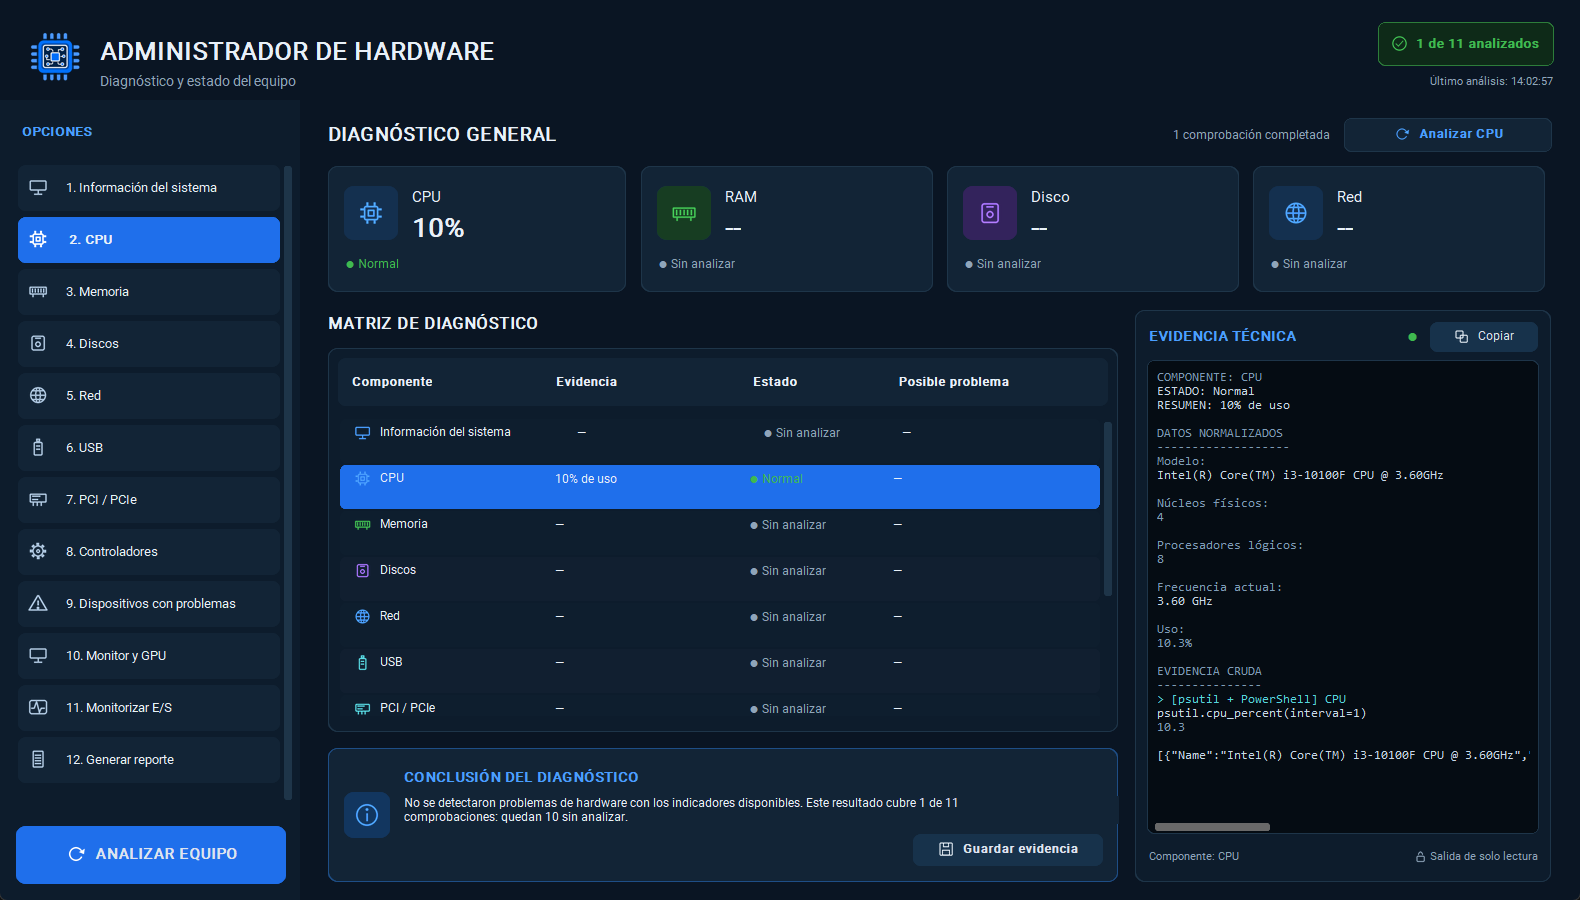
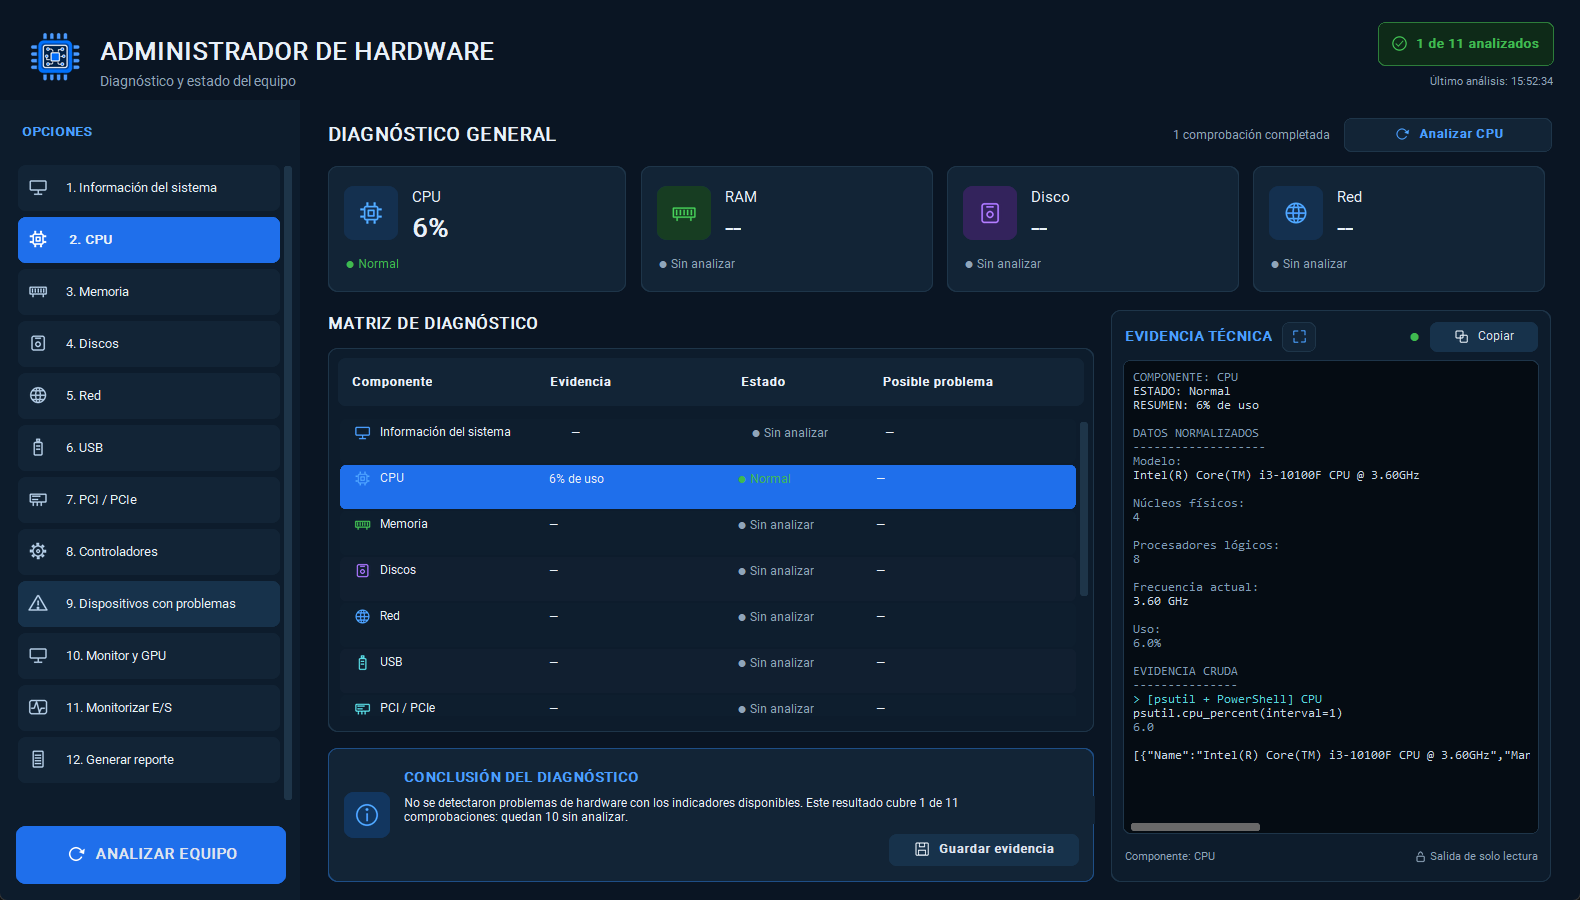
feat(ui): ver la evidencia técnica a pantalla completa
Añade un botón en la cabecera del panel de evidencia que abre el detalle
del componente seleccionado en una ventana maximizada, para leer salidas
largas sin recortes por ancho de columna.

- EvidenceWindow: consola en grande con el mismo coloreado, Copiar y
  cierre con botón o Esc. Se abre en estado `zoomed` en lugar de
  fullscreen puro para conservar los botones de ventana de Windows.
- Reutiliza una sola ventana y la mantiene sincronizada cuando cambia la
  sección seleccionada o termina un análisis.
- Extrae el coloreado de la consola a `_console_tag` / `_fill_console` a
  nivel de módulo para que el panel y la ventana compartan el formato.
- Iconos `expand` y `collapse` dibujados con Pillow.

diff --git a/src/hardware_admin/ui/main_window.py b/src/hardware_admin/ui/main_window.py
@@ -103,6 +103,40 @@ def _format_value(value: Any, indent: str = "") -> str:
     return str(value)
 
 
+def _console_tag(line: str) -> str | None:
+    if line.startswith("> "):
+        return "prompt"
+    if line.startswith("! "):
+        return "error"
+    if line.startswith(" "):
+        return None
+    stripped = line.strip()
+    if not stripped:
+        return None
+    if stripped == stripped.upper() or stripped.endswith(":"):
+        return "key"
+    return None
+
+
+def _configure_console_tags(console: Any) -> None:
+    console.tag_config("prompt", foreground=theme.CONSOLE_PROMPT)
+    console.tag_config("key", foreground=theme.CONSOLE_KEY)
+    console.tag_config("error", foreground=theme.CONSOLE_ERROR)
+
+
+def _fill_console(console: Any, text: str) -> None:
+    """Escribe la evidencia en un cuadro de solo lectura, coloreada por tipo de linea."""
+    console.configure(state="normal")
+    console.delete("1.0", "end")
+    clipped = text[:60_000]
+    console.insert("1.0", clipped)
+    for number, line in enumerate(clipped.splitlines()[:2500], start=1):
+        tag = _console_tag(line)
+        if tag is not None:
+            console.tag_add(tag, f"{number}.0", f"{number}.end")
+    console.configure(state="disabled")
+
+
 def _configure_matrix_columns(frame: Any) -> None:
     for index, (_, weight, minsize) in enumerate(MATRIX_COLUMNS):
         frame.grid_columnconfigure(index, weight=weight, minsize=minsize)
@@ -301,6 +335,92 @@ class MatrixTable(ctk.CTkFrame):
             row.update_result(result)
 
 
+class EvidenceWindow(ctk.CTkToplevel):
+    """Evidencia tecnica a pantalla completa, para leer salidas largas sin recortes."""
+
+    def __init__(self, master: Any, heading: str, body: str, expand_icon: ctk.CTkImage) -> None:
+        super().__init__(master, fg_color=theme.BACKGROUND)
+        self.title("Evidencia técnica")
+        self.geometry("1280x820")
+        self.minsize(640, 400)
+        self.grid_columnconfigure(0, weight=1)
+        self.grid_rowconfigure(1, weight=1)
+
+        bar = ctk.CTkFrame(self, fg_color="transparent")
+        bar.grid(row=0, column=0, sticky="ew", padx=18, pady=(16, 10))
+        bar.grid_columnconfigure(1, weight=1)
+        ctk.CTkLabel(
+            bar,
+            text="  EVIDENCIA TÉCNICA",
+            image=expand_icon,
+            compound="left",
+            font=ctk.CTkFont(size=15, weight="bold"),
+            text_color=theme.ACCENT_TEXT,
+        ).grid(row=0, column=0, sticky="w")
+        self.heading = ctk.CTkLabel(
+            bar,
+            text=heading,
+            font=ctk.CTkFont(size=12),
+            text_color=theme.MUTED,
+            anchor="w",
+            width=1,
+        )
+        self.heading.grid(row=0, column=1, sticky="ew", padx=16)
+        ctk.CTkButton(
+            bar,
+            text="Copiar",
+            width=104,
+            height=32,
+            corner_radius=8,
+            font=ctk.CTkFont(size=12),
+            fg_color=theme.SURFACE_HOVER,
+            hover_color=theme.ACCENT,
+            command=self.copy_evidence,
+        ).grid(row=0, column=2, sticky="e", padx=(0, 8))
+        ctk.CTkButton(
+            bar,
+            text="Cerrar  (Esc)",
+            width=118,
+            height=32,
+            corner_radius=8,
+            font=ctk.CTkFont(size=12),
+            fg_color=theme.SURFACE_ALT,
+            hover_color=theme.SURFACE_HOVER,
+            border_width=1,
+            border_color=theme.BORDER,
+            command=self.destroy,
+        ).grid(row=0, column=3, sticky="e")
+
+        self.console = ctk.CTkTextbox(
+            self,
+            fg_color=theme.TERMINAL,
+            border_color=theme.BORDER,
+            border_width=1,
+            corner_radius=10,
+            text_color=theme.CONSOLE_TEXT,
+            font=ctk.CTkFont(family="Consolas", size=13),
+            wrap="none",
+        )
+        self.console.grid(row=1, column=0, sticky="nsew", padx=18, pady=(0, 18))
+        _configure_console_tags(self.console)
+        _fill_console(self.console, body)
+
+        self.bind("<Escape>", lambda _event: self.destroy())
+        self.transient(master)
+        # `zoomed` llena la pantalla conservando los botones de ventana; el modo
+        # fullscreen puro los oculta y deja al usuario sin salida visible.
+        self.after(10, lambda: self.state("zoomed"))
+        self.after(20, self.focus)
+
+    def update_content(self, heading: str, body: str) -> None:
+        self.heading.configure(text=heading)
+        _fill_console(self.console, body)
+
+    def copy_evidence(self) -> None:
+        self.clipboard_clear()
+        self.clipboard_append(self.console.get("1.0", "end-1c"))
+
+
 class HardwareAdminApp(ctk.CTk):
     def __init__(self, scan_service: ScanService) -> None:
         ctk.set_appearance_mode("dark")
@@ -315,6 +435,7 @@ class HardwareAdminApp(ctk.CTk):
         self.results_by_kind: dict[ComponentKind, ComponentResult] = {}
         self.cards: dict[ComponentKind, StatusCard] = {}
         self.worker_events: Queue[tuple[str, Any]] = Queue()
+        self.evidence_window: EvidenceWindow | None = None
         self.icons = IconCache()
         self.nav_font = ctk.CTkFont(size=13)
         self.nav_font_selected = ctk.CTkFont(size=13, weight="bold")
@@ -607,17 +728,30 @@ class HardwareAdminApp(ctk.CTk):
 
         header = ctk.CTkFrame(panel, fg_color="transparent")
         header.grid(row=0, column=0, sticky="ew", padx=14, pady=(12, 8))
-        header.grid_columnconfigure(1, weight=1)
+        header.grid_columnconfigure(2, weight=1)
         ctk.CTkLabel(
             header,
             text="EVIDENCIA TÉCNICA",
             font=ctk.CTkFont(size=14, weight="bold"),
             text_color=theme.ACCENT_TEXT,
         ).grid(row=0, column=0, sticky="w")
+        ctk.CTkButton(
+            header,
+            text="",
+            image=self.icons.get("expand", 15, theme.ACCENT_TEXT),
+            width=34,
+            height=30,
+            corner_radius=8,
+            fg_color=theme.SURFACE_ALT,
+            hover_color=theme.SURFACE_HOVER,
+            border_width=1,
+            border_color=theme.BORDER,
+            command=self.open_evidence_window,
+        ).grid(row=0, column=1, sticky="w", padx=(10, 0))
         self.console_indicator = ctk.CTkLabel(
             header, text="●", font=ctk.CTkFont(size=14), text_color=theme.MUTED
         )
-        self.console_indicator.grid(row=0, column=1, sticky="e", padx=(0, 12))
+        self.console_indicator.grid(row=0, column=2, sticky="e", padx=(0, 10))
         ctk.CTkButton(
             header,
             text="Copiar",
@@ -630,7 +764,7 @@ class HardwareAdminApp(ctk.CTk):
             fg_color=theme.SURFACE_HOVER,
             hover_color=theme.ACCENT,
             command=self.copy_evidence,
-        ).grid(row=0, column=2, sticky="e")
+        ).grid(row=0, column=3, sticky="e")
 
         self.console = ctk.CTkTextbox(
             panel,
@@ -643,9 +777,7 @@ class HardwareAdminApp(ctk.CTk):
             wrap="none",
         )
         self.console.grid(row=1, column=0, sticky="nsew", padx=12, pady=(0, 8))
-        self.console.tag_config("prompt", foreground=theme.CONSOLE_PROMPT)
-        self.console.tag_config("key", foreground=theme.CONSOLE_KEY)
-        self.console.tag_config("error", foreground=theme.CONSOLE_ERROR)
+        _configure_console_tags(self.console)
         self._set_console(
             "ADMINISTRADOR DE HARDWARE\n"
             "La evidencia de las consultas aparecerá aquí.\n\n"
@@ -861,6 +993,7 @@ class HardwareAdminApp(ctk.CTk):
                 f"> {self.selected_component.value}\n"
                 f"Sin evidencia. Use «Analizar {name}» o ANALIZAR EQUIPO."
             )
+            self._sync_evidence_window()
             return
 
         self.console_context.configure(text=f"Componente: {result.name}")
@@ -888,32 +1021,32 @@ class HardwareAdminApp(ctk.CTk):
                 ]
             )
         self._set_console("\n".join(lines))
-
-    @staticmethod
-    def _console_tag(line: str) -> str | None:
-        if line.startswith("> "):
-            return "prompt"
-        if line.startswith("! "):
-            return "error"
-        if line.startswith(" "):
-            return None
-        stripped = line.strip()
-        if not stripped:
-            return None
-        if stripped == stripped.upper() or stripped.endswith(":"):
-            return "key"
-        return None
+        self._sync_evidence_window()
 
     def _set_console(self, text: str) -> None:
-        self.console.configure(state="normal")
-        self.console.delete("1.0", "end")
-        clipped = text[:60_000]
-        self.console.insert("1.0", clipped)
-        for number, line in enumerate(clipped.splitlines()[:2500], start=1):
-            tag = self._console_tag(line)
-            if tag is not None:
-                self.console.tag_add(tag, f"{number}.0", f"{number}.end")
-        self.console.configure(state="disabled")
+        _fill_console(self.console, text)
+
+    def open_evidence_window(self) -> None:
+        """Abre la evidencia del componente seleccionado a pantalla completa."""
+        heading = self.console_context.cget("text")
+        body = self.console.get("1.0", "end-1c")
+        window = self.evidence_window
+        if window is not None and window.winfo_exists():
+            window.update_content(heading, body)
+            window.deiconify()
+            window.lift()
+            window.focus()
+            return
+        self.evidence_window = EvidenceWindow(
+            self, heading, body, self.icons.get("expand", 17, theme.ACCENT_TEXT)
+        )
+
+    def _sync_evidence_window(self) -> None:
+        window = self.evidence_window
+        if window is not None and window.winfo_exists():
+            window.update_content(
+                self.console_context.cget("text"), self.console.get("1.0", "end-1c")
+            )
 
     def copy_evidence(self) -> None:
         text = self.console.get("1.0", "end-1c")

diff --git a/src/hardware_admin/ui/icons.py b/src/hardware_admin/ui/icons.py
@@ -218,6 +218,23 @@ def _paint_refresh(draw: ImageDraw.ImageDraw, size: float, color: str, width: in
     )
 
 
+def _paint_expand(draw: ImageDraw.ImageDraw, size: float, color: str, width: int) -> None:
+    """Cuatro esquinas abiertas hacia fuera: la convención de «ver en grande»."""
+    arm = 0.28
+    corners = ((0.12, 0.12, 1.0, 1.0), (0.88, 0.12, -1.0, 1.0),
+               (0.12, 0.88, 1.0, -1.0), (0.88, 0.88, -1.0, -1.0))
+    for x, y, x_way, y_way in corners:
+        _line(draw, size, ((x, y + y_way * arm), (x, y), (x + x_way * arm, y)), color, width)
+
+
+def _paint_collapse(draw: ImageDraw.ImageDraw, size: float, color: str, width: int) -> None:
+    arm = 0.28
+    corners = ((0.42, 0.42, -1.0, -1.0), (0.58, 0.42, 1.0, -1.0),
+               (0.42, 0.58, -1.0, 1.0), (0.58, 0.58, 1.0, 1.0))
+    for x, y, x_way, y_way in corners:
+        _line(draw, size, ((x, y + y_way * arm), (x, y), (x + x_way * arm, y)), color, width)
+
+
 def _paint_lock(draw: ImageDraw.ImageDraw, size: float, color: str, width: int) -> None:
     _rect(draw, size, (0.20, 0.44, 0.80, 0.90), color, width, 0.10)
     draw.arc(
@@ -247,6 +264,8 @@ _PAINTERS: dict[str, IconPainter] = {
     "check": _paint_check,
     "info": _paint_info,
     "refresh": _paint_refresh,
+    "expand": _paint_expand,
+    "collapse": _paint_collapse,
     "lock": _paint_lock,
 }
 

diff --git a/tests/test_icons.py b/tests/test_icons.py
@@ -17,6 +17,11 @@ class IconTests(TestCase):
         self.assertEqual(set(SECTION_NAMES), set(ComponentKind))
         self.assertEqual(set(ICON_NAMES), set(ComponentKind))
 
+    def test_the_icons_used_outside_the_menu_are_drawable(self) -> None:
+        extras = {"check", "collapse", "copy", "expand", "info", "lock", "refresh", "save"}
+
+        self.assertLessEqual(extras, set(icons.available_icons()))
+
     def test_render_returns_a_transparent_square_of_the_requested_size(self) -> None:
         image = icons.render("cpu", 24, "#4A9EFF")
 
